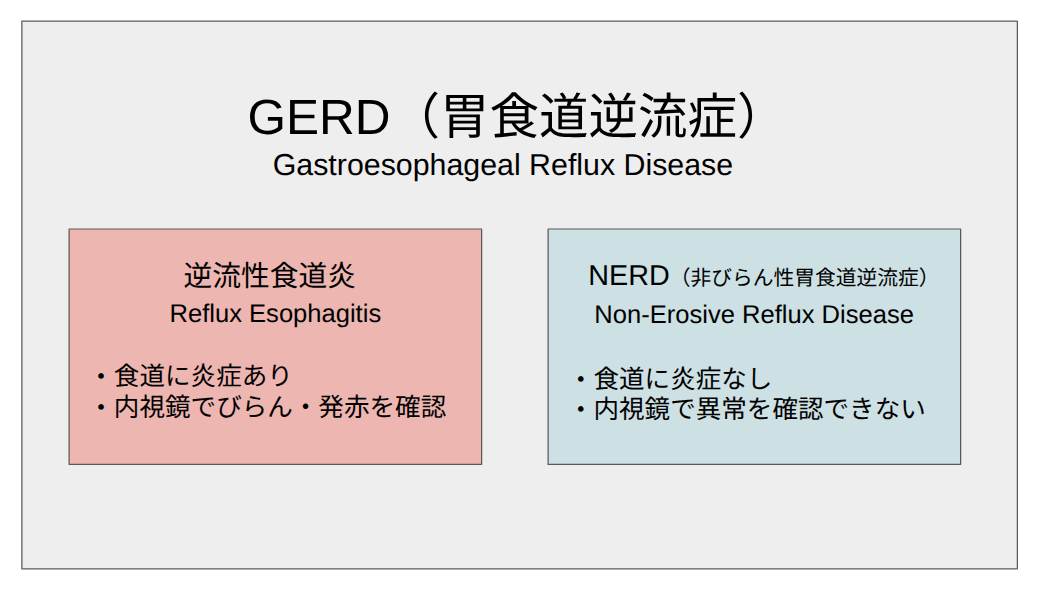
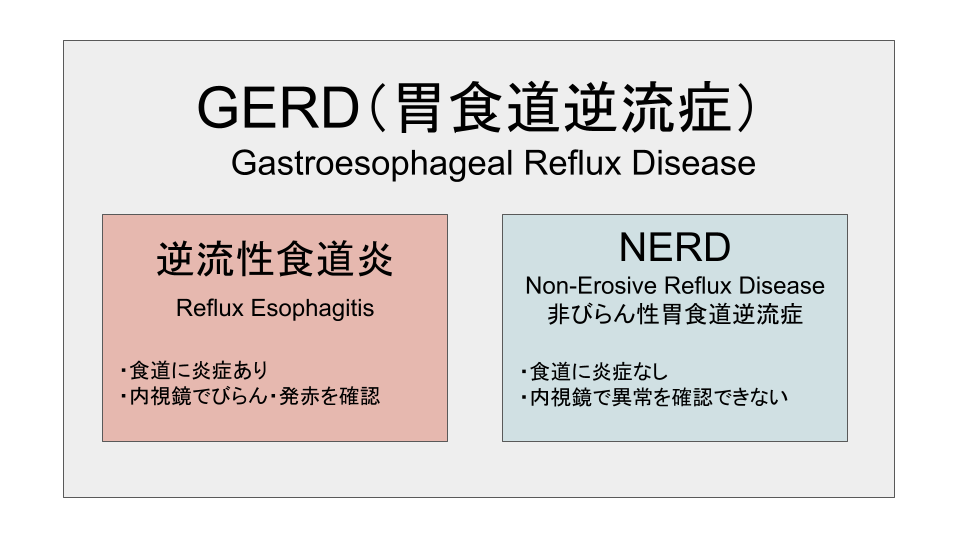
tableの表記と画像を修正して差し替え

diff --git a/app/globals.css b/app/globals.css
@@ -139,6 +139,9 @@
     border-collapse: collapse;
     margin-bottom: 1rem;
     font-size: 0.95rem;
+    display: block;
+    overflow-x: auto;
+    -webkit-overflow-scrolling: touch;
   }
 
   .prose thead {
